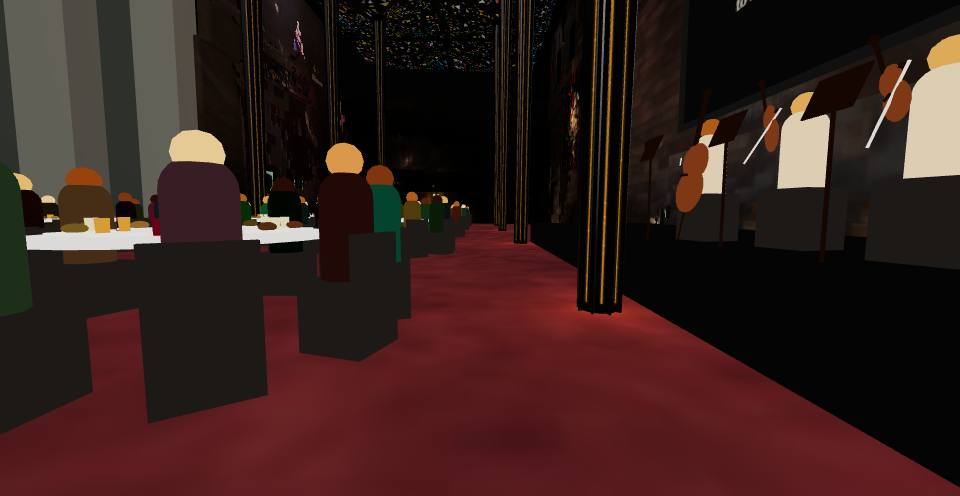
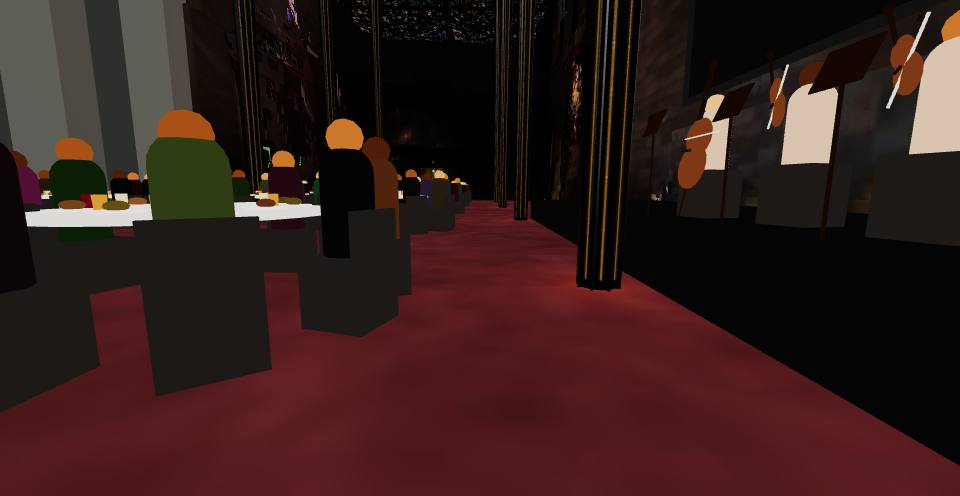
The banquet (Lloyd's note, V7): the white top cloth overhangs the purple skirt and the skirt stops 2 cm under it, so the two no longer share a face and the white stops showing through the purple. Shot 2 (V5): the bows are drawn across the strings, sliding along their own length, never through the in

diff --git a/index.html b/index.html
@@ -2125,8 +2125,9 @@ function buildBanquet(ctx){
  const d=7.55, u0=uLo+3, u1=uHi-3, L=u1-u0, W=1.6, TOP=0.76, uc=(u0+u1)/2;
  const q=new THREE.Quaternion().setFromRotationMatrix(new THREE.Matrix4().makeBasis(EVENT.N.u.clone(),new THREE.Vector3(0,1,0),EVENT.N.inRoom.clone().negate()));
  const put=(mesh,u,y,dd)=>{ const p=eventPoint(u,0,dd); mesh.position.set(p.x,y0+y,p.z); mesh.quaternion.copy(q); mesh.frustumCulled=false; eventGroup.add(mesh); return mesh; };
- put(new THREE.Mesh(new THREE.BoxGeometry(L,0.05,W),eventMat(0xe9e4d6,0xf6f2e8)),uc,TOP-0.025,d);
- put(new THREE.Mesh(new THREE.BoxGeometry(L+0.3,TOP-0.08,W+0.3),eventMat(0xb9a6dd,0xd6c8f0)),uc,(TOP-0.08)/2+0.08,d);   /* the cloth's sides light purple (Lloyd, V6) */
+ // (Lloyd, V7) the white top overhangs the purple skirt, which stops 2 cm under it: no shared face to fight
+ put(new THREE.Mesh(new THREE.BoxGeometry(L+0.36,0.04,W+0.36),eventMat(0xe9e4d6,0xf6f2e8)),uc,TOP-0.02,d);
+ put(new THREE.Mesh(new THREE.BoxGeometry(L+0.3,TOP-0.12,W+0.3),eventMat(0xb9a6dd,0xd6c8f0)),uc,(TOP-0.12)/2+0.08,d);   /* the cloth's sides light purple (Lloyd, V6) */
  put(new THREE.Mesh(new THREE.BoxGeometry(L+0.32,0.012,0.5),eventMat(0x5a1220,0x7a1c30)),uc,TOP+0.006,d);
  put(new THREE.Mesh(new THREE.BoxGeometry(L+0.34,0.06,W+0.34),eventMat(0xb08a2e,0xd4aa45)),uc,0.12,d);
  // the pleats: a half-round fold every 35 cm along both long sides
@@ -2381,7 +2382,8 @@ function buildDinner(ctx){
     inst.add(mk(SPH,wood,0.11*sc,0.13*sc,0.035,0,-0.06*sc,0), mk(SPH,wood,0.09*sc,0.1*sc,0.035,0,0.1*sc,0), mk(BOX,dark,0.025,0.34*sc,0.015,0,0.27*sc,0.02), mk(SPH,dark,0.03,0.03,0.03,0,0.45*sc,0.02), mk(BOX,dark,0.06,0.015,0.01,0,-0.03,0.04));
     bowG.position.set(-0.1,1.06,0.24); bowG.add(mk(BOX,hair,0.012,0.5,0.012,0,-0.12,0,-0.3), mk(BOX,dark,0.02,0.03,0.03,0.04,0.1,0,-0.3)); }
    g.add(mk(CYL,dark,0.012,0.9,0.012,-0.05,0.45,0.62), mk(BOX,dark,0.34,0.26,0.01,-0.05,1.0,0.62,0,-0.4));
-   dinner.quartet.st.push({i,x:p.x,z:p.z,dy,cello,bow:bowG,ph:Math.random()*6.28}); }
+   // (Lloyd, V5) the bow is drawn ACROSS the strings, sliding along its own length, never through the body
+   dinner.quartet.st.push({i,x:p.x,z:p.z,dy,cello,bow:bowG,bowBase:bowG.position.clone(),bowAxis:cello?new THREE.Vector3(1,0,0):new THREE.Vector3(Math.sin(0.3),Math.cos(0.3),0),ph:Math.random()*6.28}); }
   qp.bm.instanceColor.needsUpdate=true; qp.hm.instanceColor.needsUpdate=true; for(const m of [qc,qp.bm,qp.hm]){ m.frustumCulled=false; eventGroup.add(m); } }
  eventGroup.add(tm,lm,cm,pm,fm,km,bk,bm,hm,wt.bm,wt.hm,tray);
  addWheelchairs(ctx,[[lanesU[1],lanesD[0]],[lanesU[cols-2],lanesD[1]]]);
@@ -2420,7 +2422,7 @@ function updateDinner(dt,t,ctx){
   poseBH(D.bm,D.hm,i,s.x+lean*0.5+inx*0.08*eat,s.z+lean*0.3+inz*0.08*eat,y0+0.72+jb,y0+1.18+nod+jb-0.06*eat+0.03*sq,1,1);
   const gb=D.glassBase[i]; if(gb&&(sq>0||s.sipWas)){ s.sipWas=sq>0; _cQ.identity(); _cM.compose(_pV.set(gb[0]+(s.x-gb[0])*0.85*sq,gb[1]+0.42*sq,gb[2]+(s.z-gb[2])*0.85*sq),_cQ,{x:1,y:1,z:1}); D.km.setMatrixAt(i,_cM); D.km.instanceMatrix.needsUpdate=true; }
  }
- if(D.quartet)for(const q of D.quartet.st){ const sw=Math.sin(t*(q.cello?2.2:2.9)+q.ph); if(q.cello)q.bow.rotation.y=0.5*sw; else q.bow.rotation.x=0.45*sw;
+ if(D.quartet)for(const q of D.quartet.st){ const sw=Math.sin(t*(q.cello?2.2:2.9)+q.ph); q.bow.position.copy(q.bowBase).addScaledVector(q.bowAxis,(q.cello?0.16:0.12)*sw);
   poseBH(D.quartet.bm,D.quartet.hm,q.i,q.x,q.z,y0+q.dy+0.72,y0+q.dy+1.18+0.02*Math.sin(t*1.3+q.ph),1,1); }
  if(D.quartet){ D.quartet.bm.instanceMatrix.needsUpdate=true; D.quartet.hm.instanceMatrix.needsUpdate=true; }
  // movers keep a personal bubble: any two closer than half a metre are pushed apart, so nobody

diff --git a/tour-storyboard.md b/tour-storyboard.md
@@ -173,7 +173,7 @@ V7 (sent 01/09/2026 23:36:42):
 [shot 3, 4.4 s] I think the white tablecloth is still there because it looks like it's clipping through the purple tablecloth
 
 V8 (draft):
-[shot 3, 11.4 s] the text on desktop should be just a little bit higher
+[shot 3, 11.4 s] the text on desktop should be just a little bit higher during this scene because the word "meet" is hard to read because it isn't contrasting well against the scene
 
 ---
 
@@ -315,7 +315,10 @@ The bride needs a proper veil, and then there should be a scene where they turn 
 V3 (sent 01/09/2026 23:13:22):
 [shot 7, 3.0 s] the veil should not be a cone. It should have a smooth top on the brides head. Then is opened up. Then when they lean to kiss, they don't clip into each other
 
-V4 (draft):
+V4 (sent 01/09/2026 23:40:47):
+[shot 7, 11.8 s] make sure the bride and groom don't clip into each other during the dip
+
+V5 (draft):
 
 
 ---
